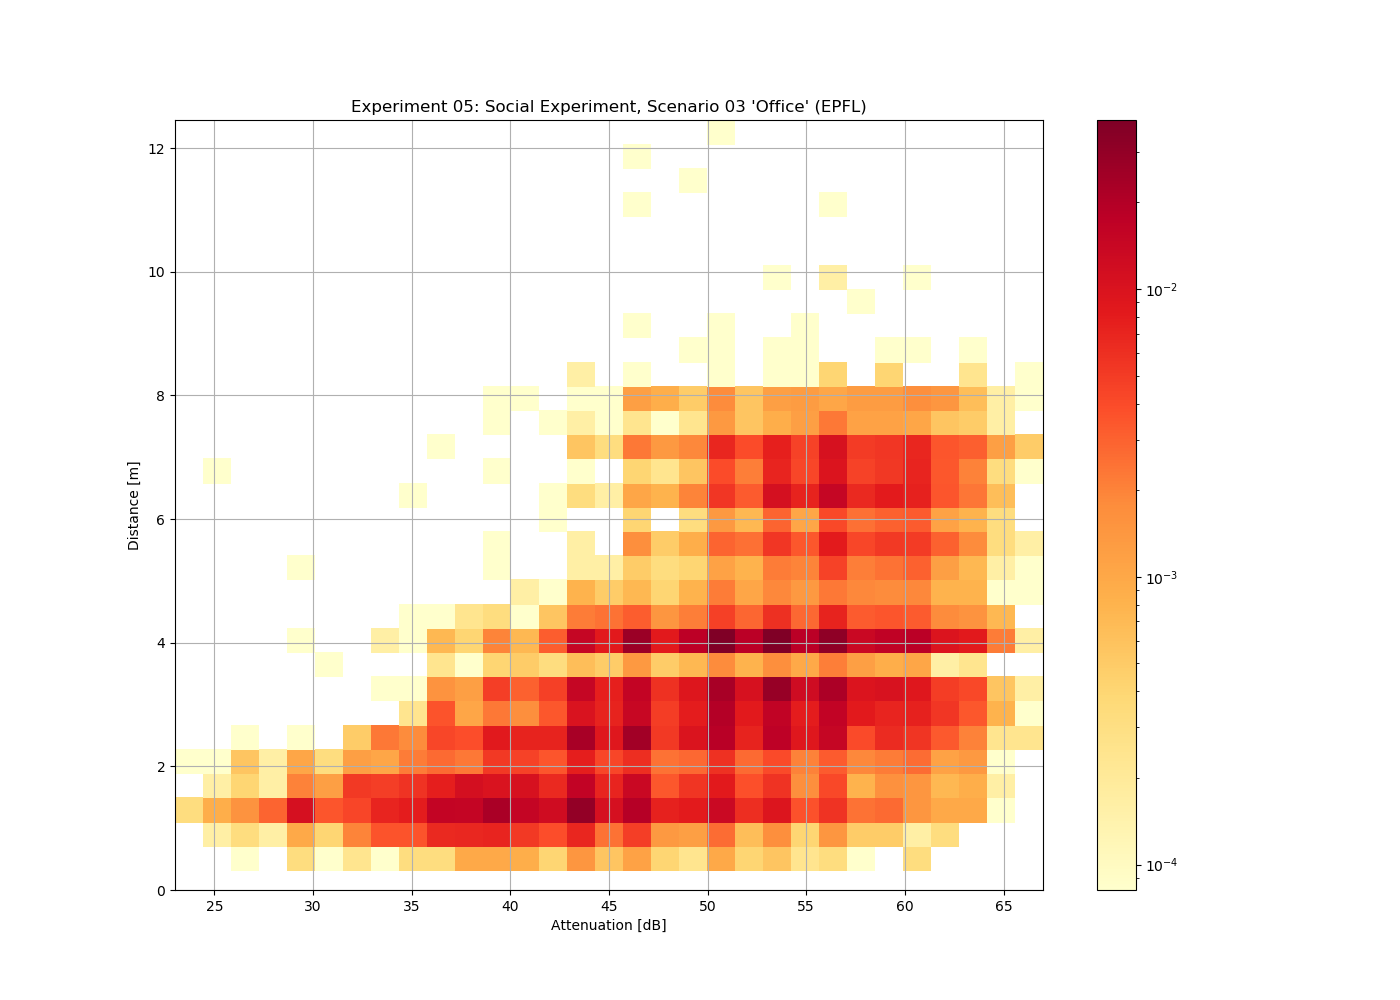
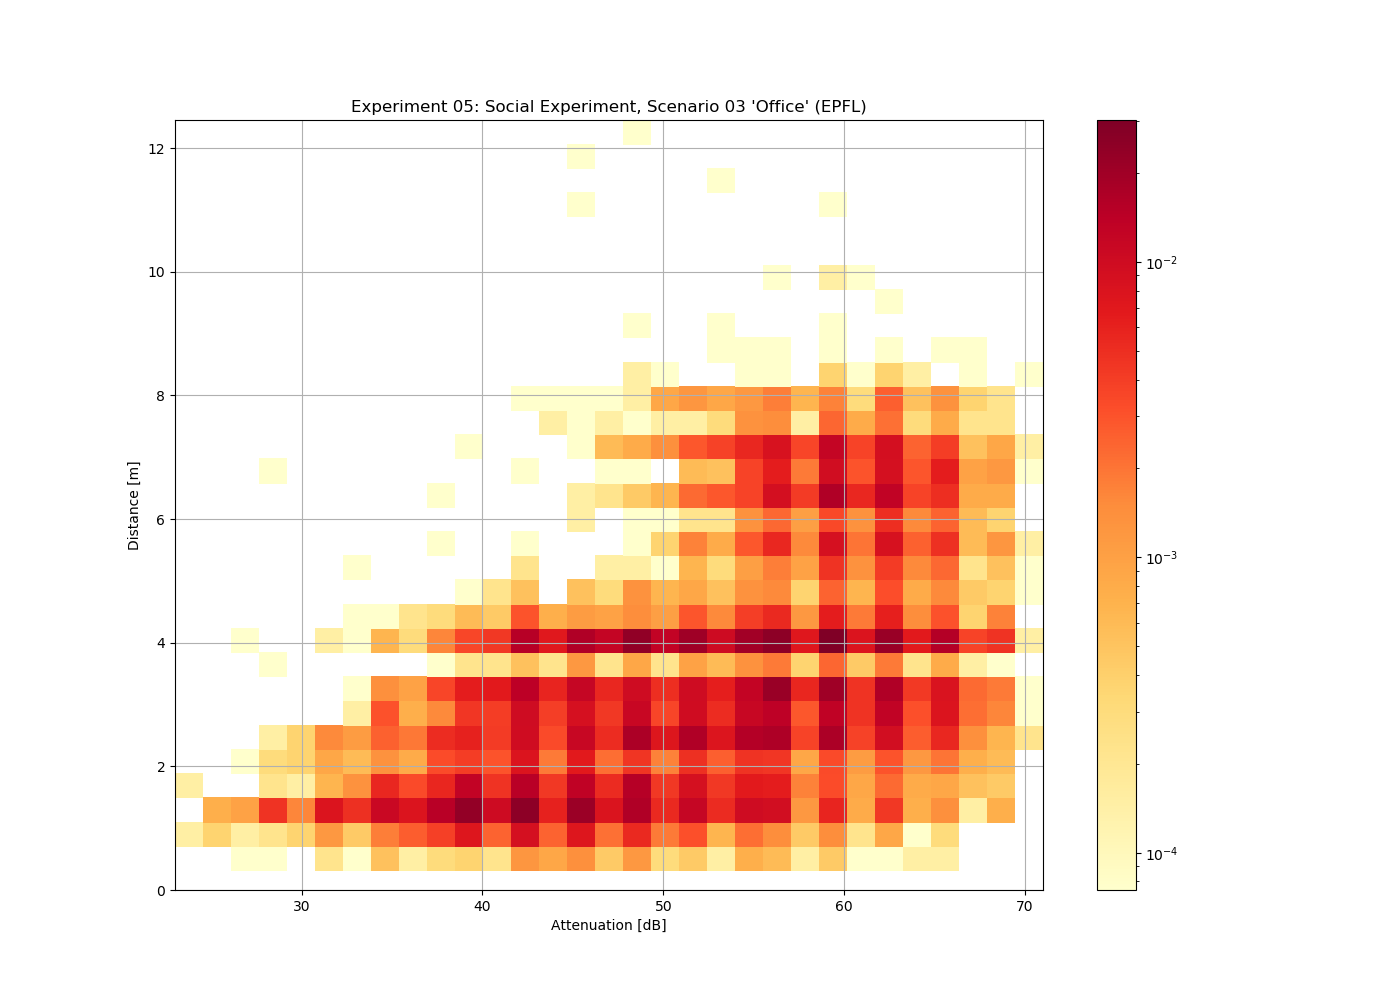
Added updated Google calibration data from 200918

diff --git a/process_measurements.py b/process_measurements.py
@@ -27,18 +27,21 @@ def create_precision_recall(exp, image_name, exp_title):
 	data_200530 = []
 	data_200613 = []
 	data_200813 = []
+	data_200918 = []
 	data_our = []
 	for _, dbname in exp:
 		data_200530 += get_attenuations(dbname, compensation=MODEL_RX_TX_COMPENSATION_200530)
 		data_200613 += get_attenuations(dbname, compensation=MODEL_RX_TX_COMPENSATION_200613)
-		data_200813 += get_attenuations(dbname, compensation=MODEL_RX_TX_COMPENSATION)
+		data_200813 += get_attenuations(dbname, compensation=MODEL_RX_TX_COMPENSATION_200813)
+		data_200918 += get_attenuations(dbname, compensation=MODEL_RX_TX_COMPENSATION)
 		data_our += get_attenuations(dbname, compensation=MODEL_RX_TX_COMPENSATION_OUR)
 
 	#precision_recall(data_200530, 30, 80, title=exp_title+": precision/recall for all scenarios (200530)", filename=image_name.format("200530"))
 	precision_recall(data_200613, 30, 80, title=exp_title+": precision/recall for all scenarios (200613)", filename=image_name.format("200613"))
 	precision_recall(data_200813, 30, 80, title=exp_title+": precision/recall for all scenarios (200813)", filename=image_name.format("200813"))
+	precision_recall(data_200918, 30, 80, title=exp_title+": precision/recall for all scenarios (200918)", filename=image_name.format("200918"))
 	precision_recall(data_our, 30, 80, title=exp_title+": precision/recall for all scenarios (our measurements)", filename=image_name.format("our"))
-	precision_recall_table(data_200813, 30, 80)
+	precision_recall_table(data_200918, 30, 80)
 
 
 def create_precision_recall_en(exp, image_name, exp_title):
@@ -67,8 +70,8 @@ if __name__ == "__main__":
 		('Queue', 'exp05-epfl-soldiers/scenario04-queue.sqlite'),
 		('Party', 'exp05-epfl-soldiers/scenario05-party.sqlite'),
 	]
-	#create_heatmaps(exp05, "figures/exp05s{:02d}-{}", "Experiment 05", "Social Experiment, Scenario {:02d} '{}' (EPFL)")
-	#create_precision_recall(exp05, "figures/exp05-pr-{}", "Experiment 05")
+	create_heatmaps(exp05, "figures/exp05s{:02d}-{}", "Experiment 05", "Social Experiment, Scenario {:02d} '{}' (EPFL)")
+	create_precision_recall(exp05, "figures/exp05-pr-{}", "Experiment 05")
 
 	#data_e05_rounded = []
 	#for att, gtd in data_e05:

diff --git a/measurements.py b/measurements.py
@@ -23,7 +23,22 @@ MODEL_RX_TX_COMPENSATION_OUR = {
     'SM-G981B/DS': [3.0, -25.5]
 }
 
-MODEL_RX_TX_COMPENSATION = { # date: 200813
+MODEL_RX_TX_COMPENSATION = { # date: 200918
+# Official Google calibration of 20/09/18
+    'iPhone7': [0.0, 3.0],
+    'iPhoneXR': [0.0, 0.0],
+    'iPhoneXS': [0.0, 3.0],
+    'iPhone11': [0.0, 1.0],
+    'iPhone11Pro': [0.0, 3.0],
+    'SM-G973F': [2.0, -29.0],
+    'SM-G970F': [5.0, -24.0],
+    'SM-A405FN': [2.0, -23.0],
+    'SM-A515F': [5.0, -24.0],
+    'SM-A908B': [5.0, -24.0],
+    'SM-G981B/DS': [5.0, -24.0] # SM-G981B in table
+}
+
+MODEL_RX_TX_COMPENSATION_200813 = { # date: 200813
 # Official Google calibration of 20/08/13
     'iPhone7': [0.0, 3.0],
     'iPhoneXR': [0.0, 0.0],
